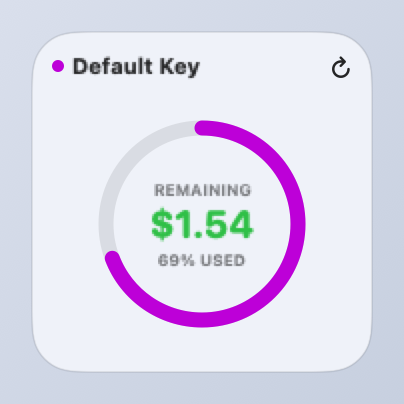
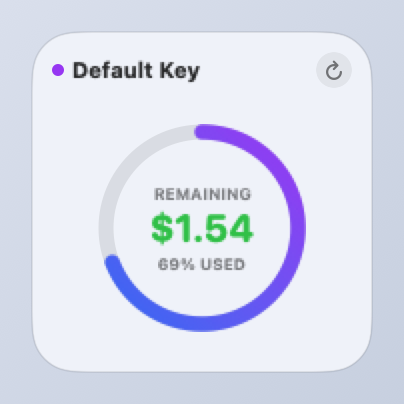
feat(widget): polish metric hierarchy, tactile refresh button, and gradient stroke

diff --git a/OpenRouterWidgetExtension/OpenRouterWidgetView.swift b/OpenRouterWidgetExtension/OpenRouterWidgetView.swift
@@ -15,6 +15,43 @@ struct OpenRouterWidgetEntryView: View {
     }
 }
 
+// MARK: - Reusable Tactile Refresh Button
+struct TactileRefreshButton: View {
+    var body: some View {
+        Button(intent: RefreshBalanceIntent()) {
+            Image(systemName: "arrow.clockwise")
+                .font(.system(size: 9, weight: .bold))
+                .foregroundStyle(.secondary)
+                .frame(width: 18, height: 18)
+                .background(Color.secondary.opacity(0.12))
+                .clipShape(Circle())
+        }
+        .buttonStyle(.plain)
+    }
+}
+
+// MARK: - Shared Gauge Stroke Style & Theme
+extension WidgetPayload {
+    var gaugeStrokeGradient: AnyShapeStyle {
+        if usagePercent > 0.9 {
+            return AnyShapeStyle(Color.red)
+        } else if usagePercent > 0.75 {
+            return AnyShapeStyle(Color.orange)
+        } else {
+            return AnyShapeStyle(
+                LinearGradient(
+                    colors: [
+                        Color(red: 0.23, green: 0.51, blue: 0.96), // Electric Cyan-Blue
+                        Color(red: 0.66, green: 0.34, blue: 0.96)  // Neon Violet
+                    ],
+                    startPoint: .topLeading,
+                    endPoint: .bottomTrailing
+                )
+            )
+        }
+    }
+}
+
 // MARK: - Small Widget View (Square)
 struct SmallWidgetView: View {
     let payload: WidgetPayload
@@ -24,18 +61,14 @@ struct SmallWidgetView: View {
             // Header: Nickname + Refresh Button
             HStack(spacing: 4) {
                 Circle()
-                    .fill(Color.purple)
+                    .fill(Color(red: 0.66, green: 0.34, blue: 0.96))
                     .frame(width: 6, height: 6)
                 Text(payload.customNickname)
                     .font(.system(size: 11, weight: .bold))
                     .lineLimit(1)
                     .truncationMode(.tail)
                 Spacer(minLength: 2)
-                Button(intent: RefreshBalanceIntent()) {
-                    Image(systemName: "arrow.clockwise")
-                        .font(.system(size: 10, weight: .bold))
-                }
-                .buttonStyle(.plain)
+                TactileRefreshButton()
             }
 
             if let err = payload.errorMessage {
@@ -56,7 +89,7 @@ struct SmallWidgetView: View {
                         Circle()
                             .trim(from: 0, to: CGFloat(payload.usagePercent))
                             .stroke(
-                                payload.usagePercent > 0.9 ? Color.red : (payload.usagePercent > 0.75 ? Color.orange : Color.purple),
+                                payload.gaugeStrokeGradient,
                                 style: StrokeStyle(lineWidth: 7.5, lineCap: .round)
                             )
                             .rotationEffect(.degrees(-90))
@@ -81,7 +114,7 @@ struct SmallWidgetView: View {
                     VStack(spacing: 4) {
                         Image(systemName: "infinity.circle.fill")
                             .font(.system(size: 28))
-                            .foregroundStyle(.purple)
+                            .foregroundStyle(Color(red: 0.66, green: 0.34, blue: 0.96))
                         Text("KEY SPEND")
                             .font(.system(size: 8, weight: .bold))
                             .foregroundStyle(.secondary)
@@ -115,7 +148,11 @@ struct MediumWidgetView: View {
             VStack(alignment: .leading, spacing: 6) {
                 HStack(spacing: 5) {
                     Circle()
-                        .fill(Color.purple)
+                        .fill(LinearGradient(
+                            colors: [Color(red: 0.23, green: 0.51, blue: 0.96), Color(red: 0.66, green: 0.34, blue: 0.96)],
+                            startPoint: .topLeading,
+                            endPoint: .bottomTrailing
+                        ))
                         .frame(width: 7, height: 7)
                     Text(payload.customNickname)
                         .font(.system(size: 12, weight: .bold))
@@ -138,7 +175,7 @@ struct MediumWidgetView: View {
                             Circle()
                                 .trim(from: 0, to: CGFloat(payload.usagePercent))
                                 .stroke(
-                                    payload.usagePercent > 0.9 ? Color.red : (payload.usagePercent > 0.75 ? Color.orange : Color.purple),
+                                    payload.gaugeStrokeGradient,
                                     style: StrokeStyle(lineWidth: 5.5, lineCap: .round)
                                 )
                                 .rotationEffect(.degrees(-90))
@@ -148,8 +185,8 @@ struct MediumWidgetView: View {
                         .frame(width: 42, height: 42)
 
                         VStack(alignment: .leading, spacing: 1) {
-                            Text("Remaining")
-                                .font(.system(size: 9))
+                            Text("REMAINING")
+                                .font(.system(size: 8, weight: .bold))
                                 .foregroundStyle(.secondary)
                             Text(String(format: "$%.2f", payload.keyRemaining ?? 0.0))
                                 .font(.system(size: 16, weight: .bold, design: .rounded))
@@ -158,12 +195,10 @@ struct MediumWidgetView: View {
                                 .minimumScaleFactor(0.8)
                         }
                     }
-
-
                 } else {
                     VStack(alignment: .leading, spacing: 2) {
-                        Text("Key Spend")
-                            .font(.system(size: 10))
+                        Text("KEY SPEND")
+                            .font(.system(size: 8, weight: .bold))
                             .foregroundStyle(.secondary)
                         Text(String(format: "$%.4f", payload.keyUsage))
                             .font(.system(size: 18, weight: .bold, design: .rounded))
@@ -173,18 +208,22 @@ struct MediumWidgetView: View {
                 }
 
                 HStack {
-                    Text("Used: $\(String(format: "%.2f", payload.keyUsage))")
-                        .font(.system(size: 9))
-                        .foregroundStyle(.secondary)
-                        .lineLimit(1)
-                        .minimumScaleFactor(0.8)
+                    VStack(alignment: .leading, spacing: 1) {
+                        Text("USED")
+                            .font(.system(size: 7, weight: .bold))
+                            .foregroundStyle(.secondary)
+                        Text(String(format: "$%.2f", payload.keyUsage))
+                            .font(.system(size: 10, weight: .semibold, design: .monospaced))
+                    }
                     Spacer()
                     if let lim = payload.keyLimit {
-                        Text("Limit: $\(String(format: "%.2f", lim))")
-                            .font(.system(size: 9))
-                            .foregroundStyle(.secondary)
-                            .lineLimit(1)
-                            .minimumScaleFactor(0.8)
+                        VStack(alignment: .trailing, spacing: 1) {
+                            Text("LIMIT")
+                                .font(.system(size: 7, weight: .bold))
+                                .foregroundStyle(.secondary)
+                            Text(String(format: "$%.2f", lim))
+                                .font(.system(size: 10, weight: .semibold, design: .monospaced))
+                        }
                     }
                 }
             }
@@ -198,11 +237,7 @@ struct MediumWidgetView: View {
                         .font(.system(size: 10, weight: .semibold))
                         .foregroundStyle(.secondary)
                     Spacer()
-                    Button(intent: RefreshBalanceIntent()) {
-                        Image(systemName: "arrow.clockwise")
-                            .font(.system(size: 10, weight: .bold))
-                    }
-                    .buttonStyle(.plain)
+                    TactileRefreshButton()
                 }
 
                 Spacer()
